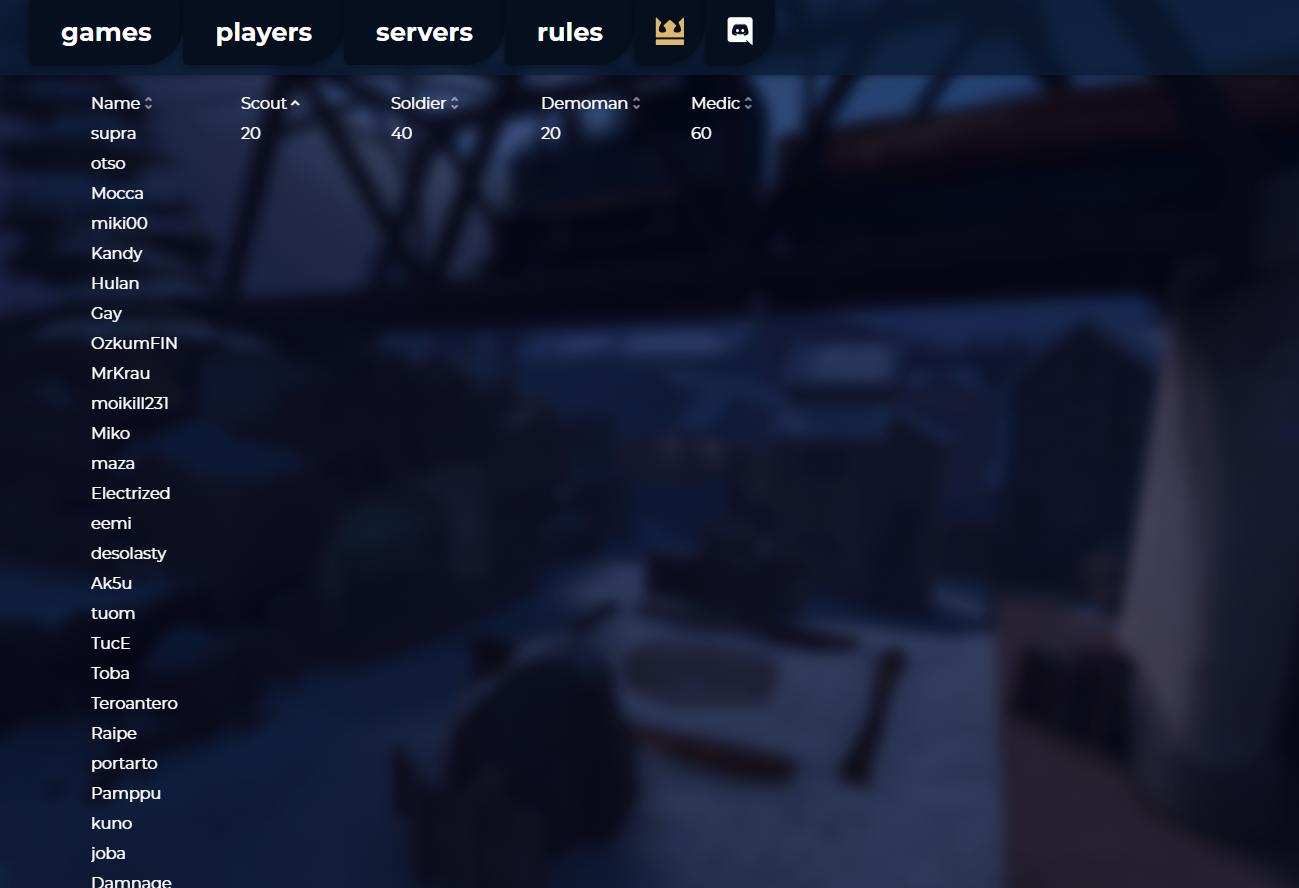
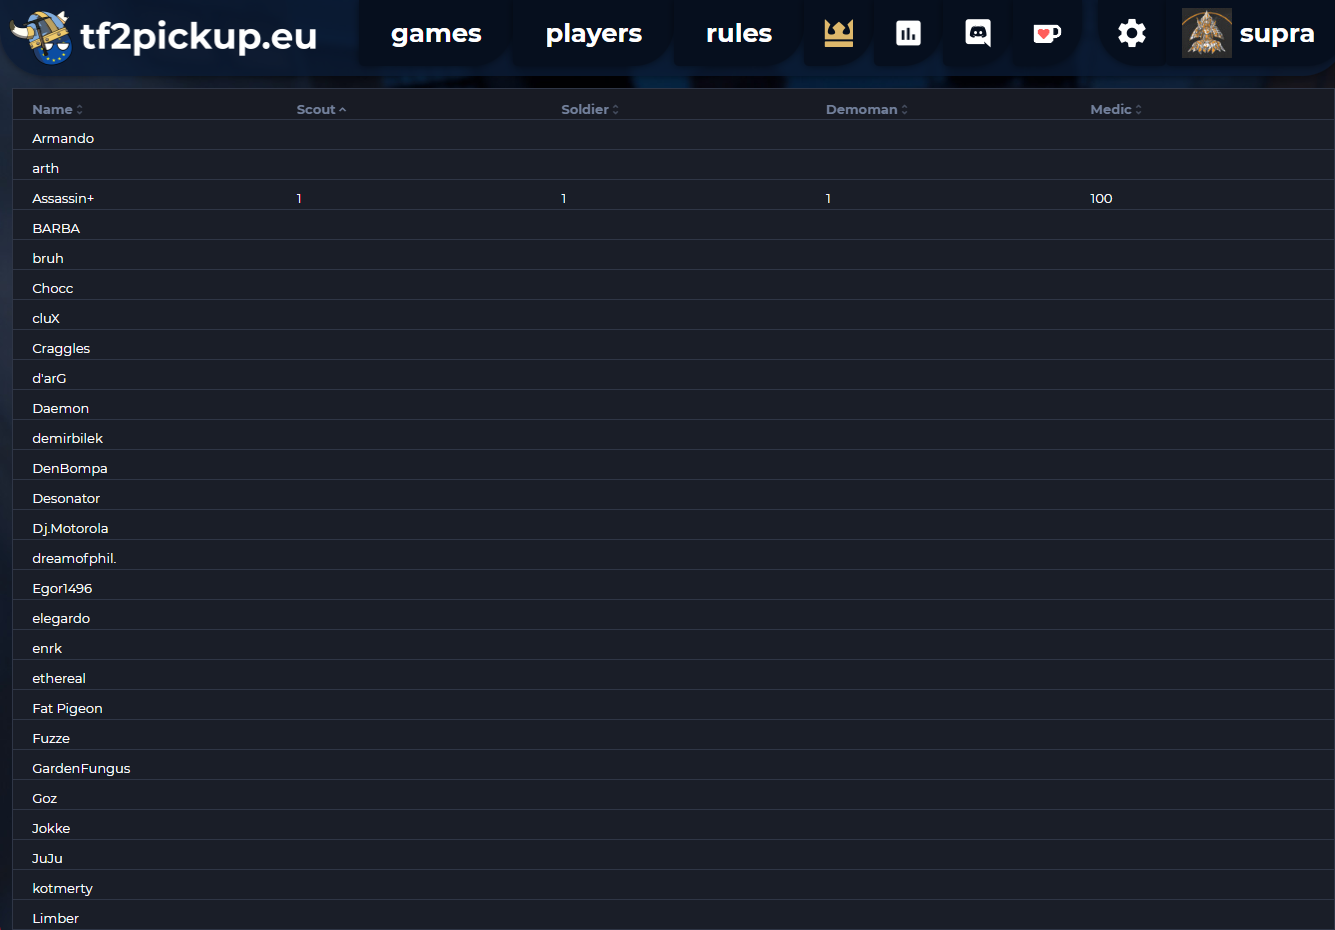
feat(assets): replace tf2pickup.fi assets to .eu ones

diff --git a/docs/site-components-deployment.md b/docs/site-components-deployment.md
@@ -271,25 +271,25 @@ After adding the bot you should configure the channels for it. Administration no
 
 The bot should have the same permissions on a channel supposed to be a place for the pickup gather up and substitute notifications. After that, you should define the rest of the Discord Bot related variables. You should look at the following things:
 
-The Discord server name is `Suomi TF2` and the pickup public notifications channel is `tf2pickupfi-yleinen`.
+The Discord server name is `tf2pickup.eu` and the pickup public notifications channel is `#pickup-notifications`.
 
 ![tf2pickupfi-yleinen](/img/content/site-components-deployment/tf2pickupfi-yleinen.png)
 
-You should also create a role for pinging players when the substitute is needed. In this example this role is called `Mixaajat`.
+You should also create a role for pinging players when the substitute is needed. In this example this role is called `ringer`.
 
 ![sub-needed](/img/content/overview/sub-needed.png)
 
-The admin notifications channel is called `admin-ilmoitukset`.
+The admin notifications channel is called `#pickup-notifications`.
 
-![discord-admin-notifications-1](/img/content/overview/discord-admin-notifications-1.png)
+![discord-admin-notifications-1](/img/content/overview/discord-admin-notifications.png)
 
 Therefore, you should define the rest of Discord Bot variables just like shown below:
 
 ```env
-DISCORD_GUILD=Suomi TF2
-DISCORD_QUEUE_NOTIFICATIONS_CHANNEL=tf2pickupfi-yleinen
-DISCORD_QUEUE_NOTIFICATIONS_MENTION_ROLE=Mixaajat
-DISCORD_ADMIN_NOTIFICATIONS_CHANNEL=admin-ilmoitukset
+DISCORD_GUILD=tf2pickup.eu
+DISCORD_QUEUE_NOTIFICATIONS_CHANNEL=come-play-with-us
+DISCORD_QUEUE_NOTIFICATIONS_MENTION_ROLE=ringer
+DISCORD_ADMIN_NOTIFICATIONS_CHANNEL=pickup-notifications
 ```
 
 ### Setting up Twitch stream integration

diff --git a/docs/the-most-common-tasks.md b/docs/the-most-common-tasks.md
@@ -6,7 +6,7 @@ Here you can find a list of the tasks admins perform on the site:
 
 ## Scramble maps
 
-You may want to scramble the maps if one of the maps is played too often. You can do so by clicking this button:
+You may want to scramble the maps if one of the maps is played too often. You can do so by clicking this button in the Admin panel:
 
 ![scramble-maps](/img/content/common-tasks/scramble-maps.png)
 
@@ -64,13 +64,13 @@ If you add up individual player values per team, you will end up with this:
 
 |  | BLU | RED |
 |:-:|:-:|:-:|
-|  | 11 | 11 |
-|  | 10 | 7 |
-|  | 7 | 13,5 |
-|  | 12 | 11 |
-|  | 15 | 12 |
-|  | 3 | 3 |
-| Result | 58 | 57,5 |
+|  | 12 | 6 |
+|  | 14,5 | 16 |
+|  | 2 | 10 |
+|  | 5 | 10 |
+|  | 10 | 11 |
+|  | 9 | 1,5 |
+| Result | 52,5 | 54,5 |
 
 This is pretty much the expected result.
 
@@ -140,7 +140,7 @@ This is what the banned user sees when banned:
 
 Revoking a ban on a player is pretty easy. All you have to do is to click `revoke` on an active ban from the ban history list of a certain user.
 
-![revoke-player-ban](/img/content/common-tasks/revoke-player-ban.png)
+![player-bans-menu](/img/content/common-tasks/player-bans-menu.png)
 
 ## Subbing out players
 
@@ -149,8 +149,6 @@ Subbing out players is currently possible **only** by the site admins.
 :::
 
 If a player for some reason cannot continue a game or they cannot join the game, you can request a player substitute, so somebody can join to a game in a place of the aformentioned player. You can do that from a game details page.
-
-![game-skill-values](/img/content/common-tasks/game-skill-values.gif)
 
 Click the `Request substitute` button next to a player nickname you want to request a sub for.
 

diff --git a/docs/site-overview.md b/docs/site-overview.md
@@ -48,6 +48,10 @@ title: Site overview
 
 ![rules-page](/img/content/overview/rules-page.png)
 
+### Admin panel
+
+![admin-panel](/img/content/overview/admin-panel.png)
+
 ## Discord notifications
 
 ### Pickup gather notification
@@ -62,6 +66,4 @@ title: Site overview
 
 ### Admin discord notifications
 
-![discord-admin-notifications-1](/img/content/overview/discord-admin-notifications-1.png)
-
-![discord-admin-notifications-2](/img/content/overview/discord-admin-notifications-2.png)
+![discord-admin-notifications](/img/content/overview/discord-admin-notifications.png)
